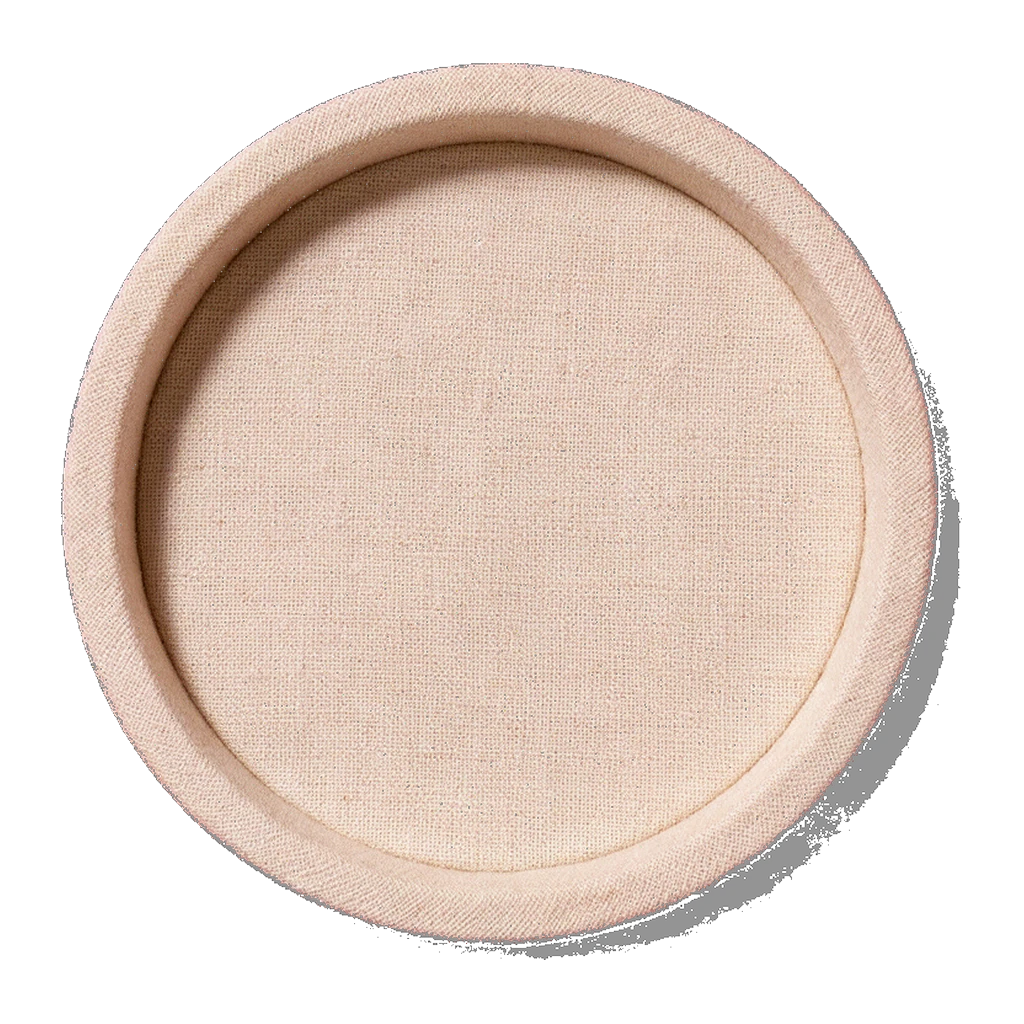
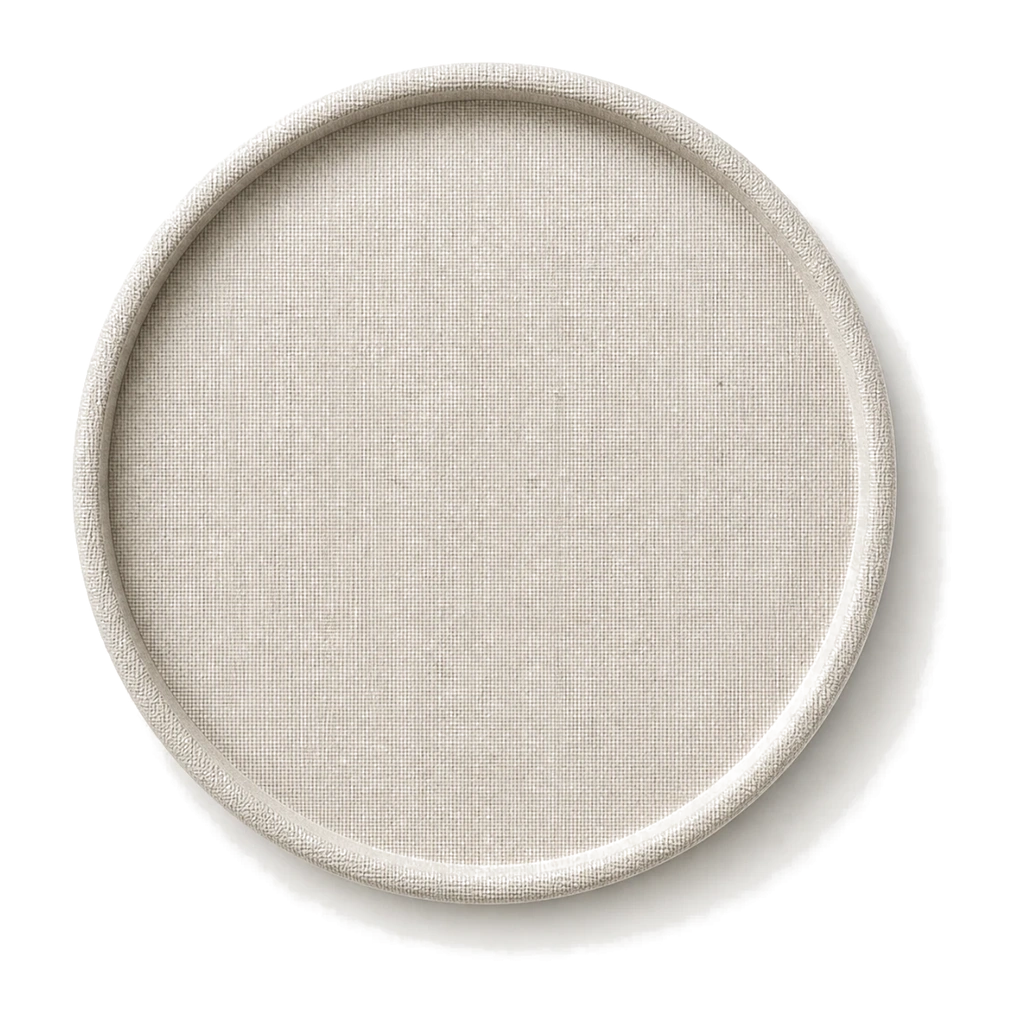
fix(assets): rebuild trays from a306042 with visual gates

diff --git a/scripts/ui-qa/verify_diy_assets.py b/scripts/ui-qa/verify_diy_assets.py
@@ -46,10 +46,30 @@ BEAD_NAMES = (
 CORNER_ALPHA_MAX = 8
 TRAY_SIZE = 1024
 TRAY_CENTER_TOLERANCE = 16
+# Expected outer subject diameter ≈ 0.88 * 1024 = 901 (rimRadiusRatio 0.44)
+TRAY_LONGEST_MIN = 880
+TRAY_LONGEST_MAX = 910
 BEAD_SIZE = 512
 BEAD_CENTER_TOLERANCE = 4
 BEAD_LONGEST_MIN = 430
 BEAD_LONGEST_MAX = 440
+
+# Enhanced tray quality gates (Codex review: islands, chroma fringe, black specks)
+ISLAND_ALPHA_MIN = 12
+ISLAND_RADIUS_RATIO = 0.52  # beyond this from center, only soft contact shadow allowed
+ISLAND_MAX_COUNT = 8
+EDGE_RING_INNER = 0.40
+EDGE_RING_OUTER = 0.50
+EDGE_CHROMA_SAT_MAX = 42  # max(max-min) on RGB for fringe detection
+EDGE_GREEN_BIAS_MAX = 18  # g - max(r,b) residual
+EDGE_MAGENTA_BIAS_MAX = 55  # min(r,b) - g residual
+BLACK_SPECK_LUMA = 28
+BLACK_SPECK_MAX_COUNT = 12
+BLACK_SPECK_MIN_ALPHA = 40
+# Hard-cutout alpha blocks (binary mask with no intermediate AA)
+BLOCK_SIZE = 8
+BLOCK_BINARY_RATIO = 0.90
+BLOCK_MAX_COUNT = 24
 
 
 @dataclass(frozen=True)
@@ -80,6 +100,123 @@ def _alpha_box_stats(bbox: tuple[int, int, int, int]) -> tuple[float, float, int
     return cx, cy, right - left, bottom - top
 
 
+def _saturation(r: int, g: int, b: int) -> int:
+    return max(r, g, b) - min(r, g, b)
+
+
+def _check_tray_artifacts(image: Image.Image) -> list[str]:
+    """Detect alpha islands outside the subject, edge chroma fringe, and black specks."""
+    issues: list[str] = []
+    w, h = image.size
+    pix = image.load()
+    cx, cy = w / 2.0, h / 2.0
+    outer_r = min(w, h) * ISLAND_RADIUS_RATIO
+    ring_in = min(w, h) * EDGE_RING_INNER
+    ring_out = min(w, h) * EDGE_RING_OUTER
+
+    # Discrete alpha islands outside the main subject disc
+    island_candidates = 0
+    for y in range(0, h, 2):
+        for x in range(0, w, 2):
+            a = pix[x, y][3]
+            if a < ISLAND_ALPHA_MIN:
+                continue
+            dist = ((x - cx) ** 2 + (y - cy) ** 2) ** 0.5
+            if dist <= outer_r:
+                continue
+            # Outside subject: require a 4-neighbourhood mostly transparent to count as island/noise
+            neigh = 0
+            opaque_n = 0
+            for nx, ny in ((x - 2, y), (x + 2, y), (x, y - 2), (x, y + 2)):
+                if 0 <= nx < w and 0 <= ny < h:
+                    neigh += 1
+                    if pix[nx, ny][3] >= ISLAND_ALPHA_MIN:
+                        opaque_n += 1
+            if neigh and opaque_n <= 1:
+                island_candidates += 1
+    if island_candidates > ISLAND_MAX_COUNT:
+        issues.append(f"alpha_islands={island_candidates} expected <= {ISLAND_MAX_COUNT}")
+
+    # Edge ring: high-saturation green/magenta fringe
+    green_hits = 0
+    magenta_hits = 0
+    for y in range(0, h, 1):
+        for x in range(0, w, 1):
+            a = pix[x, y][3]
+            if a < 8:
+                continue
+            dist = ((x - cx) ** 2 + (y - cy) ** 2) ** 0.5
+            if dist < ring_in or dist > ring_out:
+                continue
+            r, g, b, _ = pix[x, y]
+            sat = _saturation(r, g, b)
+            green_bias = g - max(r, b)
+            magenta_bias = min(r, b) - g
+            # Green residue can be low-sat on acrylic; detect bias alone when strong enough.
+            if green_bias >= EDGE_GREEN_BIAS_MAX:
+                green_hits += 1
+            elif sat >= EDGE_CHROMA_SAT_MAX and green_bias >= EDGE_GREEN_BIAS_MAX:
+                green_hits += 1
+            if magenta_bias >= EDGE_MAGENTA_BIAS_MAX and sat >= 70:
+                magenta_hits += 1
+    if green_hits > 40:
+        issues.append(f"edge_green_fringe={green_hits} expected <= 40")
+    if magenta_hits > 40:
+        issues.append(f"edge_magenta_fringe={magenta_hits} expected <= 40")
+
+    # Isolated dark/black speckles with alpha
+    black_hits = 0
+    for y in range(0, h, 2):
+        for x in range(0, w, 2):
+            r, g, b, a = pix[x, y]
+            if a < BLACK_SPECK_MIN_ALPHA:
+                continue
+            if (r + g + b) / 3.0 >= BLACK_SPECK_LUMA:
+                continue
+            # speck: dark pixel with mostly non-dark neighbours
+            dark_n = 0
+            n = 0
+            for nx, ny in ((x - 2, y), (x + 2, y), (x, y - 2), (x, y + 2), (x - 2, y - 2), (x + 2, y + 2)):
+                if 0 <= nx < w and 0 <= ny < h:
+                    n += 1
+                    rr, gg, bb, aa = pix[nx, ny]
+                    if aa >= BLACK_SPECK_MIN_ALPHA and (rr + gg + bb) / 3.0 < BLACK_SPECK_LUMA + 15:
+                        dark_n += 1
+            if n and dark_n <= 1:
+                black_hits += 1
+    if black_hits > BLACK_SPECK_MAX_COUNT:
+        issues.append(f"black_specks={black_hits} expected <= {BLACK_SPECK_MAX_COUNT}")
+
+    # Hard-cutout binary alpha blocks (no anti-aliasing)
+    block_hits = 0
+    for by in range(0, h - BLOCK_SIZE + 1, BLOCK_SIZE):
+        for bx in range(0, w - BLOCK_SIZE + 1, BLOCK_SIZE):
+            bdist = ((bx + BLOCK_SIZE / 2 - cx) ** 2 + (by + BLOCK_SIZE / 2 - cy) ** 2) ** 0.5
+            if bdist > ring_out + 40:
+                continue
+            zeros = 0
+            fulls = 0
+            mids = 0
+            for y in range(by, by + BLOCK_SIZE):
+                for x in range(bx, bx + BLOCK_SIZE):
+                    a = pix[x, y][3]
+                    if a <= 2:
+                        zeros += 1
+                    elif a >= 253:
+                        fulls += 1
+                    else:
+                        mids += 1
+            total = BLOCK_SIZE * BLOCK_SIZE
+            binary = zeros + fulls
+            # Straddling edge with almost no intermediate alpha = hard pixel block
+            if zeros >= 2 and fulls >= 2 and binary / total >= BLOCK_BINARY_RATIO and mids <= 2:
+                block_hits += 1
+    if block_hits > BLOCK_MAX_COUNT:
+        issues.append(f"alpha_blocks={block_hits} expected <= {BLOCK_MAX_COUNT}")
+
+    return issues
+
+
 def verify_tray(path: Path) -> tuple[bool, list[str]]:
     if not path.is_file():
         return False, ["missing file"]
@@ -97,8 +234,16 @@ def verify_tray(path: Path) -> tuple[bool, list[str]]:
         half = TRAY_SIZE / 2.0
         if abs(cx - half) > TRAY_CENTER_TOLERANCE or abs(cy - half) > TRAY_CENTER_TOLERANCE:
             issues.append(f"alpha center=({cx:.1f},{cy:.1f}) expected near ({half:.1f},{half:.1f})")
+        longest = max(bw, bh)
+        if not (TRAY_LONGEST_MIN <= longest <= TRAY_LONGEST_MAX):
+            issues.append(f"longest_alpha_side={longest} expected {TRAY_LONGEST_MIN}-{TRAY_LONGEST_MAX}")
         if bw == TRAY_SIZE and bh == TRAY_SIZE and m.corner_alpha_max > CORNER_ALPHA_MAX:
             issues.append("opaque full-frame rectangle")
+    if path.is_file() and not issues:
+        # Artifact checks only when geometry already passes
+        issues.extend(_check_tray_artifacts(Image.open(path).convert("RGBA")))
+    elif path.is_file():
+        issues.extend(_check_tray_artifacts(Image.open(path).convert("RGBA")))
     return (not issues), issues
 
 
@@ -118,7 +263,9 @@ def verify_bead(path: Path) -> tuple[bool, list[str]]:
         cx, cy, bw, bh = _alpha_box_stats(m.alpha_bbox)
         half = BEAD_SIZE / 2.0
         if abs(cx - half) > BEAD_CENTER_TOLERANCE or abs(cy - half) > BEAD_CENTER_TOLERANCE:
-            issues.append(f"alpha center=({cx:.1f},{cy:.1f}) expected within {BEAD_CENTER_TOLERANCE}px of ({half:.1f},{half:.1f})")
+            issues.append(
+                f"alpha center=({cx:.1f},{cy:.1f}) expected within {BEAD_CENTER_TOLERANCE}px of ({half:.1f},{half:.1f})"
+            )
         longest = max(bw, bh)
         if not (BEAD_LONGEST_MIN <= longest <= BEAD_LONGEST_MAX):
             issues.append(f"longest_alpha_side={longest} expected {BEAD_LONGEST_MIN}-{BEAD_LONGEST_MAX}")
@@ -131,7 +278,10 @@ def _format_line(kind: str, path: Path, ok: bool, issues: list[str], m: AssetMea
     status = "PASS" if ok else "FAIL"
     left, top, right, bottom = m.alpha_bbox
     cx, cy, bw, bh = _alpha_box_stats(m.alpha_bbox)
-    detail = f"size={m.width}x{m.height} bbox=({left},{top},{right},{bottom}) center=({cx:.1f},{cy:.1f}) longest={max(bw, bh)} corner_a={m.corner_alpha_max}"
+    detail = (
+        f"size={m.width}x{m.height} bbox=({left},{top},{right},{bottom}) "
+        f"center=({cx:.1f},{cy:.1f}) longest={max(bw, bh)} corner_a={m.corner_alpha_max}"
+    )
     if issues:
         detail += " | " + "; ".join(issues)
     return f"{status} {kind} {path.name}: {detail}"

diff --git a/apps/frontend/public/trays/ASSET_PROVENANCE.md b/apps/frontend/public/trays/ASSET_PROVENANCE.md
@@ -1,40 +1,79 @@
 # DIY Tray Asset Provenance
 
-Owner: TASK-ASSET-003 (ASSET / Xiaomi MiMo under Codex lead)
-Date: 2026-09-13
-License: Generated for Mystcrag product runtime use. No competitor media copied.
+Owner: TASK-ASSET-003 (ASSET / Xiaomi MiMo under Codex lead and review)
+Date: 2026-09-13 (review remediation)
+License: Runtime assets derived only from repository baseline tray files already tracked at plan commit `a306042`. No competitor media. No third-party stock. No generative-image source.
 
-Shared runtime frame and geometry:
+## Authoritative input
+
+The four source files are the pre-existing repository runtime trays at plan base `a306042`:
+
+| Source (git `a306042`) | Original size | Mode |
+| --- | --- | --- |
+| `apps/frontend/public/trays/bone-china.webp` | 1100×1100 | RGB |
+| `apps/frontend/public/trays/clear-acrylic.webp` | 1100×1100 | RGB |
+| `apps/frontend/public/trays/french-linen.webp` | 1100×1100 | RGB |
+| `apps/frontend/public/trays/oak-wood.webp` | 1100×1100 | RGB |
+
+Extract command:
+
+```bash
+git show a306042:apps/frontend/public/trays/<name>.webp > /tmp/a306042-<name>.webp
+```
+
+## Shared runtime frame
 
 - Canvas: 1024×1024 RGBA WebP
-- `rimRadiusRatio = 0.44`
-- `innerRadiusRatio = 0.37`
-- Centered non-empty alpha bounds; four corner alpha values `<= 8`
-- Outer subject diameter normalized to ≈ 0.88 × frame width (880 px target, measured longest side 901 px)
+- `rimRadiusRatio = 0.44`, `innerRadiusRatio = 0.37`
+- Outer alpha longest side normalized to `round(1024 * 0.88) = 901`
+- Four corner alpha values `<= 8`
+- Each file ≤ 900 KiB
 
-Generation invariant (all four materials):
+## Deterministic transformation (all four materials)
 
-> Photorealistic top-down circular jewelry bead tray isolated on a solid chroma-key background; outer rim radius 44% of frame width; usable inner floor radius 37%; entire rim retained; restrained contact shadow only; no beads, text, logo, hands, tools, or cropped rim; neutral soft studio light from upper left.
+1. Estimate studio background as the mean RGB of an 8-pixel border band.
+2. Convert every pixel to alpha with a linear distance ramp to that background:
+   - `alpha = 0` when `dist <= t0`
+   - `alpha = 255` when `dist >= t1`
+   - otherwise `alpha = round(255 * (dist - t0) / (t1 - t0))`
+3. Acrylic only: keep light RGB and multiply alpha by `0.20` when `luma >= 225` and `dist < t1 + 10`, so the usable floor stays true-transparent instead of an opaque gray disc.
+4. Gaussian blur the alpha channel only (`radius=0.55`) for a light anti-aliased edge. No texture smearing.
+5. Crop to `alpha >= 8` bounding box; scale longest side to 901 (proportional); center on a transparent 1024×1024 canvas using unmasked RGBA paste (preserves semi-transparent RGB).
+6. Force the outer 2-pixel border fully transparent.
+7. Save WebP. Prefer `lossless=True, method=6`; fall back to `quality=95,90,85` only if the file exceeds 900 KiB.
 
-Post-process (shared):
+### Per-file thresholds
 
-1. Chroma-key exterior background via corner flood-fill.
-2. Neutralize residual chroma-tinted contact shadow into dark gray alpha.
-3. Wipe residual AI watermark pixels outside the tray disc.
-4. Crop to alpha bounds, scale longest side to `round(1024 * 0.88)`, center on a transparent 1024×1024 canvas.
-5. Save WebP (`quality≈90`, `method=6`), each file ≤ 900 KiB.
+| File | t0 | t1 | Acrylic floor rule |
+| --- | --- | --- | --- |
+| `bone-china.webp` | 10 | 22 | no |
+| `clear-acrylic.webp` | 7 | 18 | yes |
+| `french-linen.webp` | 12 | 28 | no |
+| `oak-wood.webp` | 12 | 28 | no |
 
-| File | Source | Material line | Transformation | SHA-256 | Bytes |
-| --- | --- | --- | --- | --- | --- |
[4 lines of base64/hex data omitted]
+Reproduction sketch (Pillow 10.x):
 
-Verification:
+```python
+# border mean bg -> linear alpha ramp -> optional acrylic floor scale
+# -> GaussianBlur(A, 0.55) -> crop/scale/center 901 on 1024 RGBA
+# -> save WEBP lossless method=6 (or quality=95 under 900KiB)
+```
+
+## Output evidence
+
+| File | SHA-256 | Bytes | Longest | Corner alpha |
+| --- | --- | --- | --- | --- |
[4 lines of base64/hex data omitted]
+
+Acrylic center pixel is light RGB with low alpha (`≈ (241,234,234,37)`), confirming true transparency rather than a gray-black disc.
+
+## Verification
 
 ```bash
 python3 scripts/ui-qa/verify_diy_assets.py --trays-only
 ```
 
-Expected: PASS for exactly four files (1024×1024, corner alpha `<= 8`, centered alpha box, longest side 901).
+Expected: PASS for exactly four files, including enhanced gates for alpha islands outside the subject, edge green/magenta fringe, black specks, and hard binary alpha blocks.
